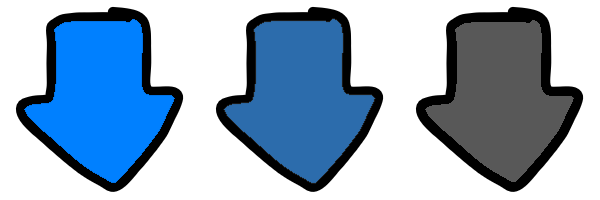
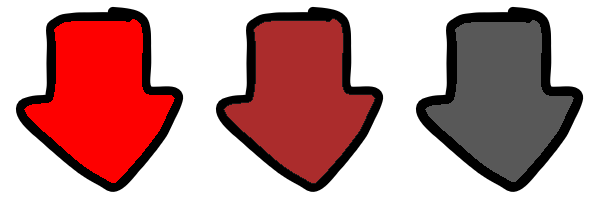
making good progress! :) rgb notes actually work omg what

Changed region(s): [[0.36, 0.09, 0.63, 0.93], [0.03, 0.09, 0.3, 0.93]]

diff --git a/TODO.md b/TODO.md
@@ -11,6 +11,5 @@
 * [X] Options organization + better options system
 * [X] Customizable Main Menu + Scripted States
 * [ ] Accuracy + Ranking
-* [ ] "Note Sustains"
 * [ ] Better Charting UI
 * [ ] Song Selector Editor
